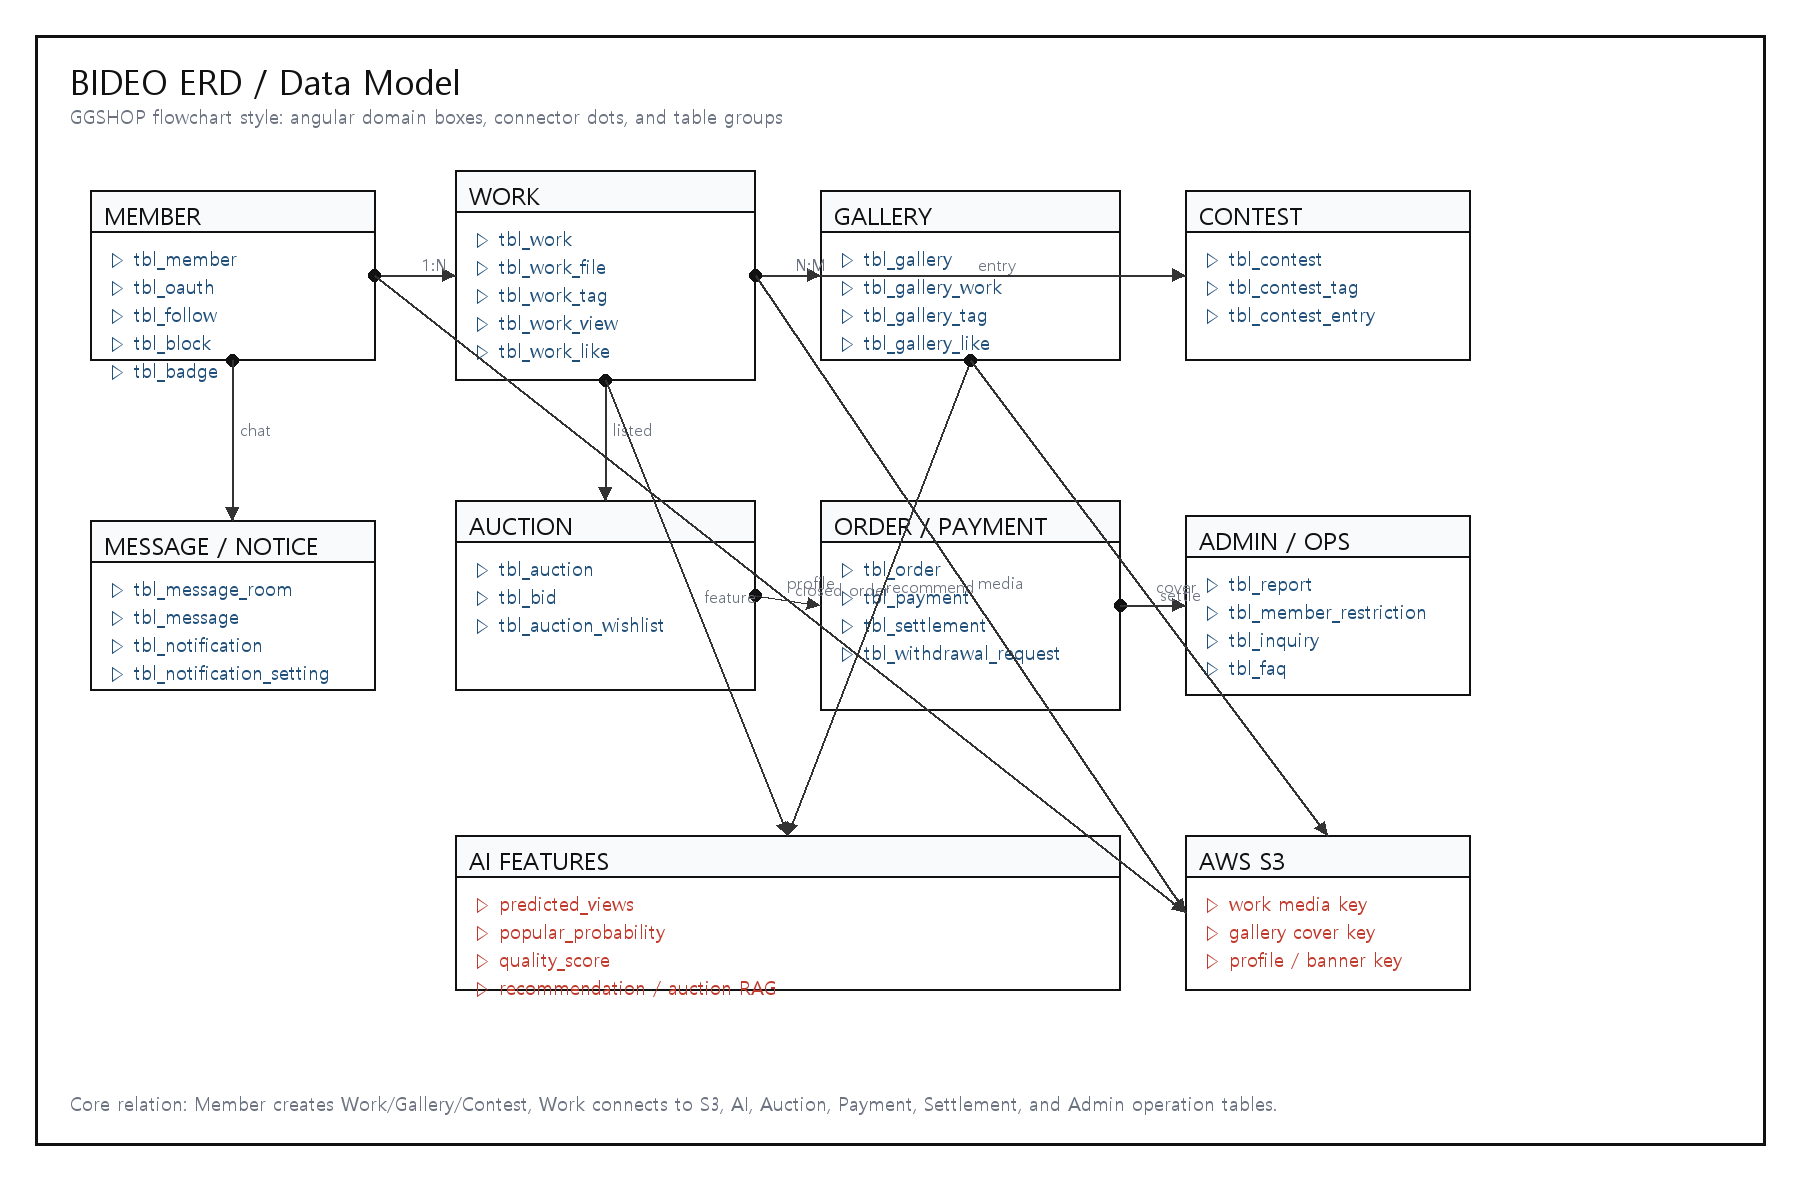
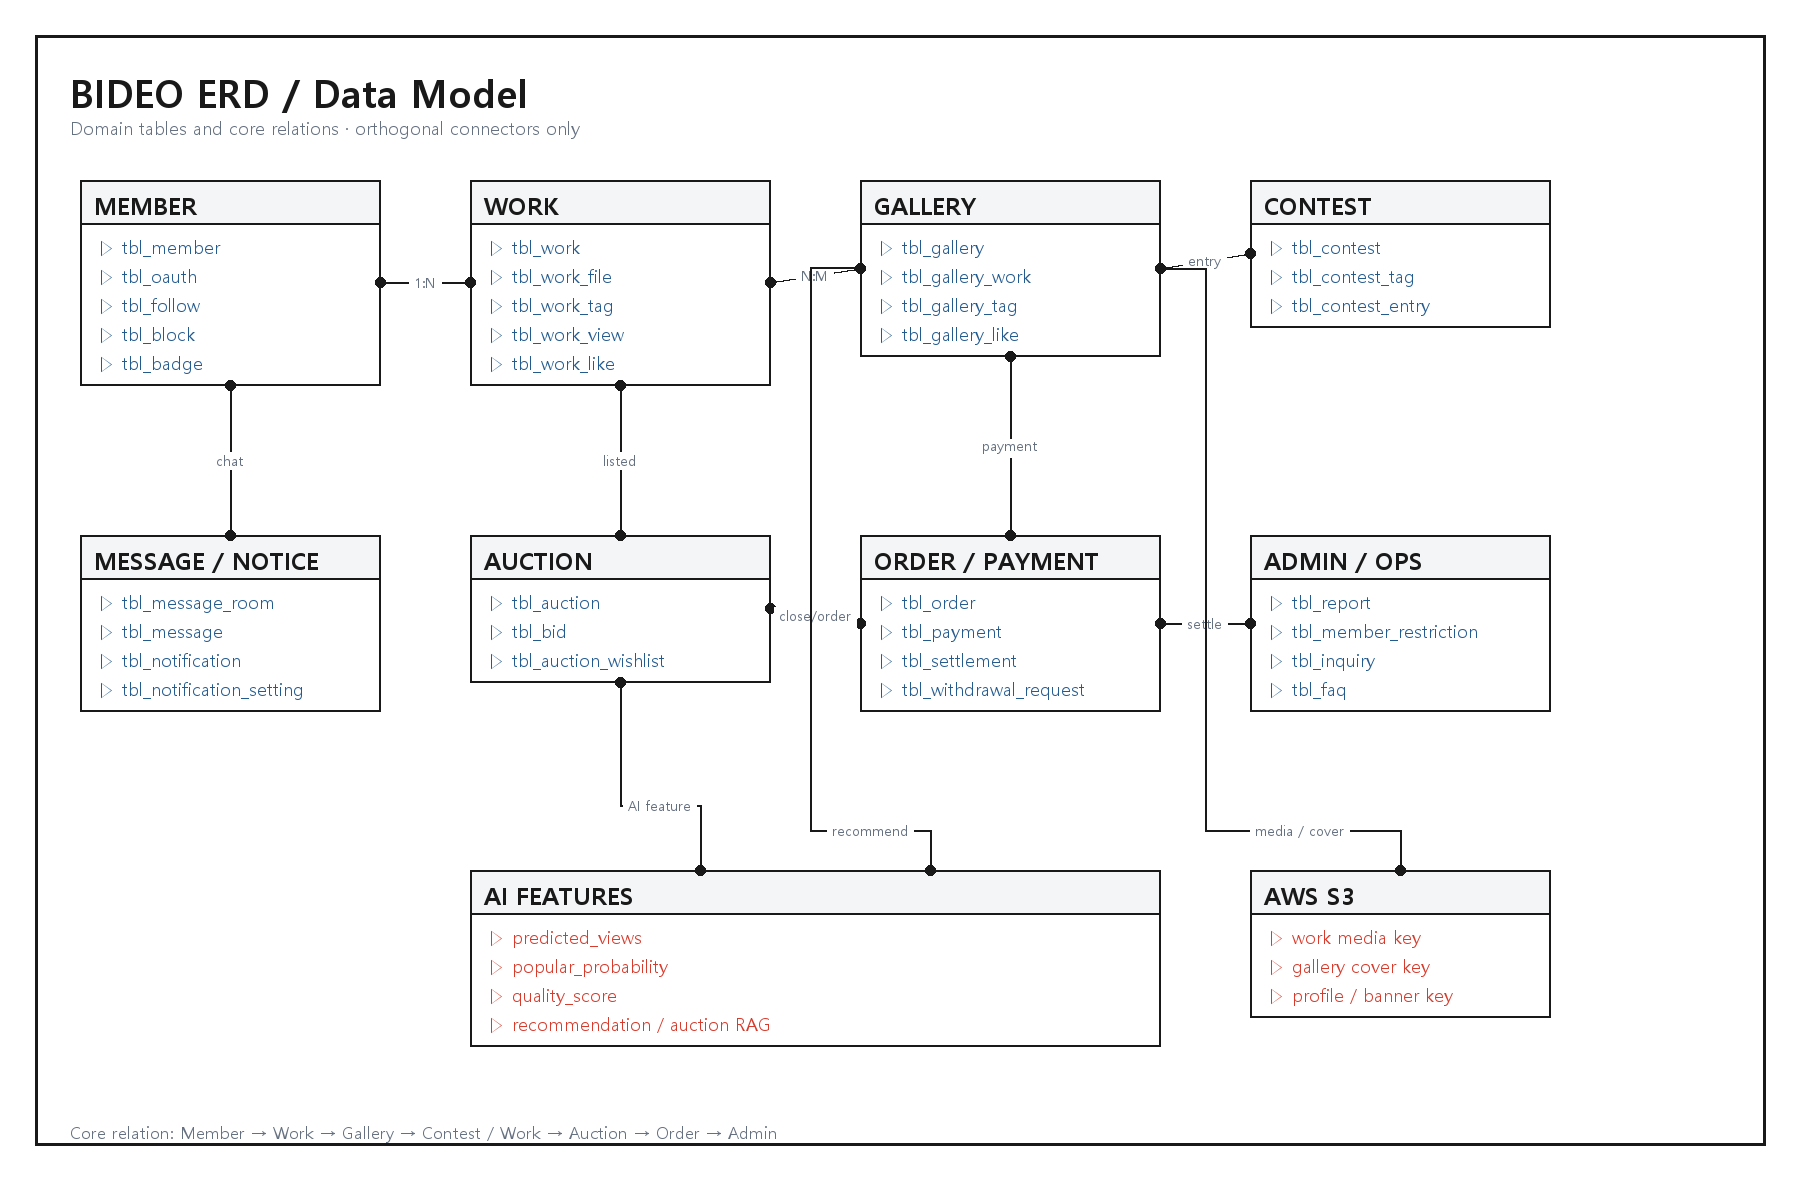
Straighten ERD and simplify README (#3)

diff --git a/scripts/docs/generate_erd.py b/scripts/docs/generate_erd.py
@@ -1,0 +1,137 @@
+from pathlib import Path
+
+from PIL import Image, ImageDraw, ImageFont
+
+
+ROOT = Path(__file__).resolve().parents[2]
+OUTPUT = ROOT / "docs/portfolio/erd/bideo-erd-ggshop-style.png"
+W, H = 1800, 1180
+
+FONT_PATH = Path(r"C:\Windows\Fonts\malgun.ttf")
+BOLD_PATH = Path(r"C:\Windows\Fonts\malgunbd.ttf")
+
+
+def font(size: int, bold: bool = False):
+    path = BOLD_PATH if bold else FONT_PATH
+    return ImageFont.truetype(str(path), size)
+
+
+img = Image.new("RGB", (W, H), "white")
+draw = ImageDraw.Draw(img)
+
+BLACK = "#191919"
+BLUE = "#245B8F"
+RED = "#D63B2C"
+MUTED = "#657080"
+HEADER = "#F3F5F7"
+
+
+def box(x, y, w, title, rows, color=BLUE):
+    header_h, row_h = 44, 29
+    h = header_h + row_h * len(rows) + 16
+    draw.rectangle((x, y, x + w, y + h), fill="white", outline=BLACK, width=2)
+    draw.rectangle((x, y, x + w, y + header_h), fill=HEADER, outline=BLACK, width=2)
+    draw.text((x + 14, y + 8), title, fill=BLACK, font=font(24, True))
+    for i, row in enumerate(rows):
+        yy = y + header_h + 10 + i * row_h
+        draw.text((x + 18, yy), f"▷ {row}", fill=color, font=font(18))
+    return {"x": x, "y": y, "w": w, "h": h}
+
+
+def anchor(node, side):
+    if side == "left":
+        return node["x"], node["y"] + node["h"] // 2
+    if side == "right":
+        return node["x"] + node["w"], node["y"] + node["h"] // 2
+    if side == "top":
+        return node["x"] + node["w"] // 2, node["y"]
+    return node["x"] + node["w"] // 2, node["y"] + node["h"]
+
+
+def relation(start, end, label, via=None, label_pos=None):
+    points = [start, *(via or []), end]
+    draw.line(points, fill=BLACK, width=2, joint="curve")
+    for point in (start, end):
+        x, y = point
+        draw.ellipse((x - 5, y - 5, x + 5, y + 5), fill=BLACK)
+    if label:
+        if label_pos is not None:
+            tx, ty = label_pos
+        else:
+            longest = max(
+                zip(points, points[1:]),
+                key=lambda pair: abs(pair[1][0] - pair[0][0]) + abs(pair[1][1] - pair[0][1]),
+            )
+            (x1, y1), (x2, y2) = longest
+            tx, ty = (x1 + x2) // 2, (y1 + y2) // 2
+        label_font = font(14)
+        left, top, right, bottom = draw.textbbox((tx, ty), label, font=label_font, anchor="mm")
+        draw.rectangle((left - 5, top - 3, right + 5, bottom + 3), fill="white")
+        draw.text((tx, ty), label, fill=MUTED, font=label_font, anchor="mm")
+
+
+draw.rectangle((35, 35, W - 35, H - 35), outline=BLACK, width=3)
+draw.text((70, 66), "BIDEO ERD / Data Model", fill=BLACK, font=font(38, True))
+draw.text(
+    (70, 115),
+    "Domain tables and core relations · orthogonal connectors only",
+    fill=MUTED,
+    font=font(18),
+)
+
+member = box(80, 180, 300, "MEMBER", ["tbl_member", "tbl_oauth", "tbl_follow", "tbl_block", "tbl_badge"])
+work = box(470, 180, 300, "WORK", ["tbl_work", "tbl_work_file", "tbl_work_tag", "tbl_work_view", "tbl_work_like"])
+gallery = box(860, 180, 300, "GALLERY", ["tbl_gallery", "tbl_gallery_work", "tbl_gallery_tag", "tbl_gallery_like"])
+contest = box(1250, 180, 300, "CONTEST", ["tbl_contest", "tbl_contest_tag", "tbl_contest_entry"])
+
+message = box(80, 535, 300, "MESSAGE / NOTICE", ["tbl_message_room", "tbl_message", "tbl_notification", "tbl_notification_setting"])
+auction = box(470, 535, 300, "AUCTION", ["tbl_auction", "tbl_bid", "tbl_auction_wishlist"])
+order = box(860, 535, 300, "ORDER / PAYMENT", ["tbl_order", "tbl_payment", "tbl_settlement", "tbl_withdrawal_request"])
+admin = box(1250, 535, 300, "ADMIN / OPS", ["tbl_report", "tbl_member_restriction", "tbl_inquiry", "tbl_faq"])
+
+ai = box(470, 870, 690, "AI FEATURES", ["predicted_views", "popular_probability", "quality_score", "recommendation / auction RAG"], RED)
+s3 = box(1250, 870, 300, "AWS S3", ["work media key", "gallery cover key", "profile / banner key"], RED)
+
+# Horizontal relations
+relation(anchor(member, "right"), anchor(work, "left"), "1:N")
+relation(anchor(work, "right"), anchor(gallery, "left"), "N:M")
+relation(anchor(gallery, "right"), anchor(contest, "left"), "entry")
+relation(anchor(auction, "right"), anchor(order, "left"), "close/order")
+relation(anchor(order, "right"), anchor(admin, "left"), "settle")
+
+# Vertical relations
+relation(anchor(member, "bottom"), anchor(message, "top"), "chat")
+relation(anchor(work, "bottom"), anchor(auction, "top"), "listed")
+relation(anchor(gallery, "bottom"), anchor(order, "top"), "payment")
+relation(
+    anchor(auction, "bottom"),
+    (700, ai["y"]),
+    "AI feature",
+    [(620, 805), (700, 805)],
+    (660, 805),
+)
+relation(
+    anchor(gallery, "left"),
+    (930, ai["y"]),
+    "recommend",
+    [(810, 268), (810, 830), (930, 830)],
+    (870, 830),
+)
+relation(
+    anchor(gallery, "right"),
+    (1400, s3["y"]),
+    "media / cover",
+    [(1205, 268), (1205, 830), (1400, 830)],
+    (1300, 830),
+)
+
+draw.text(
+    (70, 1120),
+    "Core relation: Member → Work → Gallery → Contest / Work → Auction → Order → Admin",
+    fill=MUTED,
+    font=font(17),
+)
+
+OUTPUT.parent.mkdir(parents=True, exist_ok=True)
+img.save(OUTPUT, quality=95)
+print(OUTPUT)
